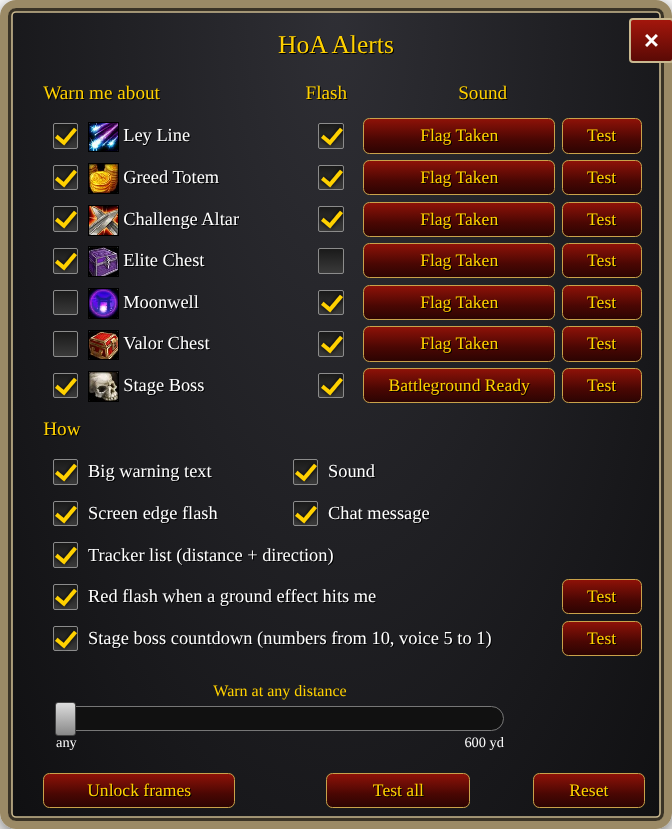
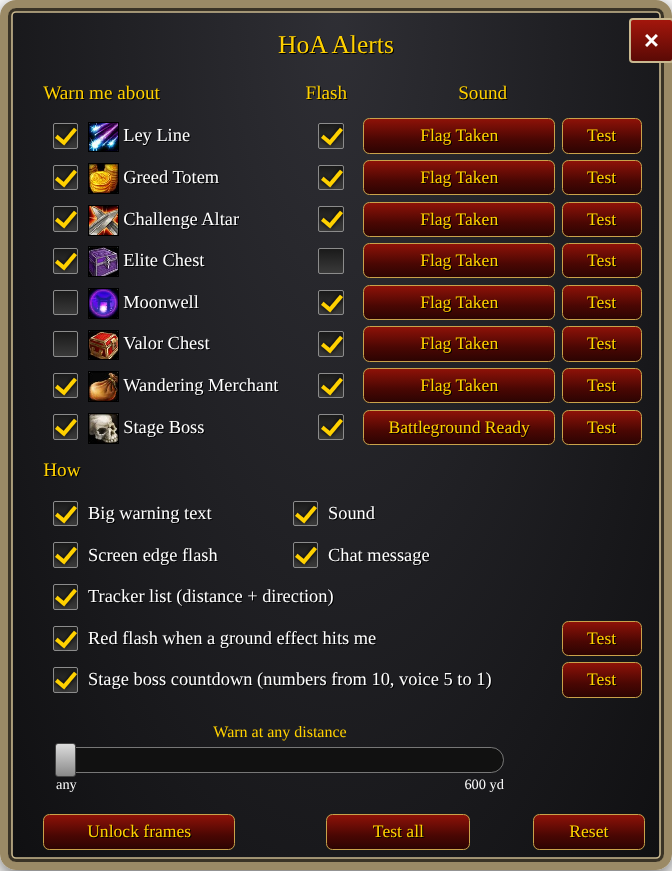
Add a Wandering Merchant alert
The merchant arrives as a "vendor" map pin (INV_Misc_Bag_10 icon) and
leaves after 60 seconds (BonkRunVendor.cpp). Add a Wandering Merchant
alert type, on by default with the Flag Taken sound, and show the time
left on its tracker row, synced to the server's value whenever the pin
is resent. Redraw the options window mockup with the new row.

Claude-Session: https://claude.ai/code/session_01QKDwL12sXUyq5tjcKJktwx

diff --git a/README.md b/README.md
@@ -11,6 +11,7 @@ It warns you when one of these appears during a run:
 | **Elite Chest** (free chest) | on | Flag Taken |
 | Moonwell | off | Flag Taken |
 | Valor Chest (costs Valor) | off | Flag Taken |
+| **Wandering Merchant** arrives | on | Flag Taken |
 | **Stage Boss** arrives | on | Battleground Ready (`PVPTHROUGHQUEUE`) |
 
 Each warning can:
@@ -27,6 +28,9 @@ telegraphed circle, cone, line, ring, eruption or bolt landing zone in time. Tur
 When several spawns of the same type appear within 3 seconds of each other (an elite pack dying
 often drops a pile of chests), they merge into one warning that counts up, like `Elite Chest dropped!  x4`.
 Only the first one plays a sound, flashes and prints to chat.
+
+When the **Wandering Merchant** shows up you get `Wandering Merchant has arrived!` with distance and
+direction. He moves on after 60 seconds, so his tracker row also counts down the time left.
 
 When the **stage boss** spawns you get `<boss name> has arrived!` with distance and direction, at any
 range (the range filter doesn't apply), and the boss is pinned to the top of the tracker, where its
@@ -92,7 +96,7 @@ unticked as an example). The game draws its own checkboxes, buttons and fonts.*
 | `/hoaa test [type]` | Show test warnings |
 | `/hoaa unlock` / `/hoaa lock` | Move the warning text and the tracker |
 | `/hoaa range <yards>` | Only warn for spawns within that distance (`0` = any) |
-| `/hoaa leyline` / `greed` / `altar` / `elite` / `moonwell` / `valor` / `boss` | Turn one alert type on or off |
+| `/hoaa leyline` / `greed` / `altar` / `elite` / `moonwell` / `valor` / `merchant` / `boss` | Turn one alert type on or off |
 | `/hoaa warning` / `sound` / `flash` / `chat` / `tracker` | Turn one kind of output on or off |
 | `/hoaa sounds` | List the sounds and what each type plays |
 | `/hoaa sound <type> <number>` | Pick a sound for one type, e.g. `/hoaa sound elite 1` |
